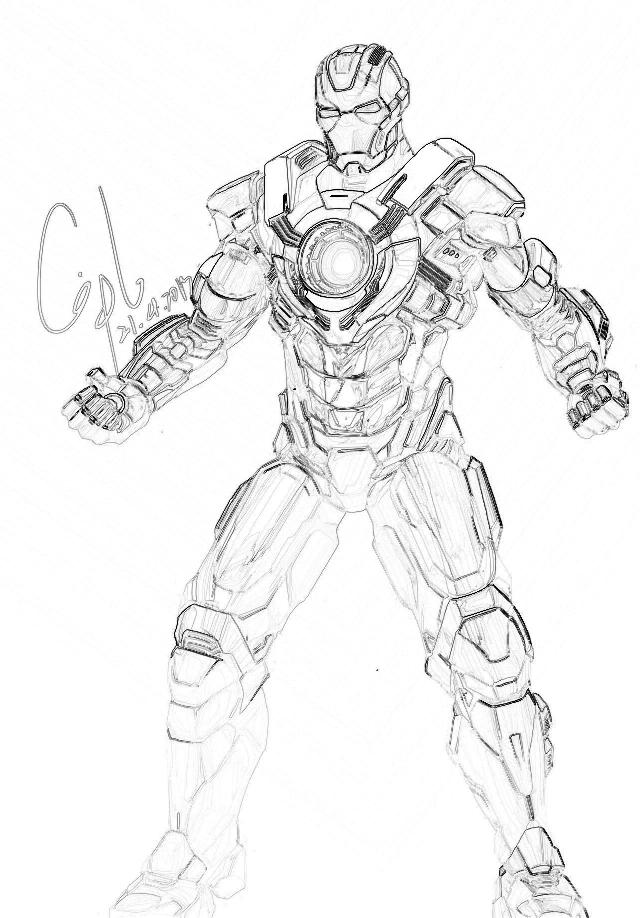
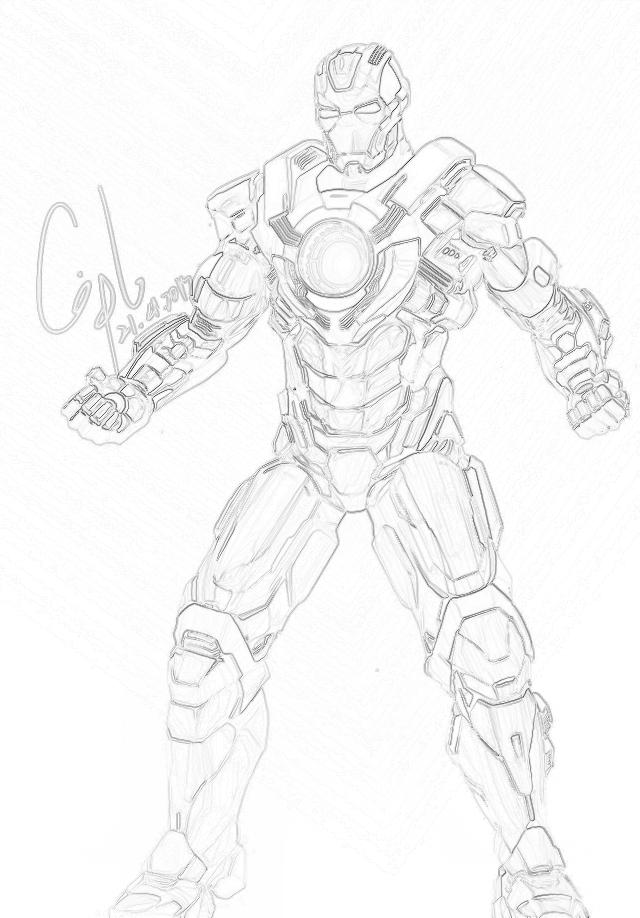
:smile: add color-pencil, my code is too messy

diff --git a/pencil.py b/pencil.py
@@ -17,6 +17,20 @@ DIRECTIONNUM = 8
 LINEDIVISOR = 25
 
 
+def np_show(Imag):
+	img = Image.fromarray(Imag*255)
+	img.show()
+
+def show_hsv(img , filename = None):
+	img = Image.fromarray(img , mode = 'HSV')
+	img = img.convert('RGB')
+	img.show()
+
+	
+	if filename:
+		img.save(os.path.join('output', filename))
+
+
 def tensor_save_output(img_tensor, name):
     img = img_tensor.squeeze().numpy()
     img = Image.fromarray(img * 255)
@@ -31,16 +45,20 @@ def tensor_save_output(img_tensor, name):
 
 
 class TextureLearn(nn.Module):
-	def __init__(self , textname,target ,device = 'cuda'):
+	def __init__(self , textname,target ,device = None):
 		super().__init__()
-		self.device = device
+		if device:
+			self.device = device
+		else :
+			self.device  = torch.device('cuda:0' if torch.cuda.is_available() else 'cpu')
+
 		self.theta = 0.5
-		self.avoid_add = 0.01
+		self.avoid_add = 0.001
 		self.C ,self.H , self.W = target.size()
 		print(type(self.H),type(self.W))
 		texture = Image.open(textname).resize((self.W , self.H))
 		texture = texture.convert('L') 	
-		texture.show()
+		#texture.show()
 		self.H = transforms.ToTensor()(texture).to(self.device)
 
 
@@ -93,18 +111,20 @@ class PencilDraw(nn.Module):
 		self.unloader = transforms.ToPILImage()
 		self.device = device
 	
-	def show(self, x ,filename =None ):
+	def show(self, x , filename =None , mode = None):
 		x = x.to('cpu')
 		show = self.unloader(x)
 		#print(type(show))
+		if mode :
+			show.mode = mode 
 		show.show()
 		if filename:
 			show.save(os.path.join('output', filename))
 		#(show , filename)
 
 	# data is C*H*W tensor 
-	# TODO: add cuda compute
-	def get_line(self,input_data , gammaS = 2 ):
+
+	def get_line(self,input_data , gammaS = 1 ):
 
 		input_data = input_data.to(self.device)
 		print(input_data.dtype)
@@ -144,7 +164,7 @@ class PencilDraw(nn.Module):
 		self.show((1-d_image)**gammaS ,'test_gd.jpg')
 
 		# improve 
-		d_image[d_image<0.01] = 0
+		d_image[d_image<0.015] = 0
 		#d_image[d_image>0] +=0.01
 
 		G = torch.zeros(1,DIRECTIONNUM,H,W).to(self.device)
@@ -203,17 +223,31 @@ class PencilDraw(nn.Module):
 
 
 
-	def forward(self,filename):
+	def forward(self,filename , mode = 'gray'):
 		img = Image.open(filename)
 				
 		counter = 1 
-		if min(img.size[0] , img.size[1])// counter >1000:
+		print(min(img.size[0] , img.size[1])// counter)
+		while (min(img.size[0] , img.size[1])/ counter >1000):
 			counter *=2 
+			print('test counter' , counter)
+		
 		img = img.resize((img.size[0]//counter,img.size[1]//counter))
+		img = img.filter(ImageFilter.SMOOTH)
+		print(img.size)
+		if mode == 'gray':
+			img_gray = img.convert('L') 
+			img_gray = np.array(img_gray)	
+		else :
+			img_color = np.array(img.convert('HSV'))
+			print ('test pre img color size ' , img_color.shape)
+			img_gray = img_color[:,:,2]
+			
+		
+		clahe = cv2.createCLAHE(clipLimit=5.0, tileGridSize=(8, 8))
+		img_gray = clahe.apply(img_gray)
 
-		img_gray = img.convert('L') 
-
-		tone = self.get_tone(np.array(img_gray.filter(ImageFilter.SMOOTH))).to(self.device)
+		tone = self.get_tone(img_gray).to(self.device)
 		tone = self.render_texture(tone , 'texture.jpg')
 		# C*H*W tensor
 		img = self.transform(img)
@@ -228,10 +262,16 @@ class PencilDraw(nn.Module):
 		# tensor_save_output(line.to('cpu') ,'line.jpg')
 		S = tone * line 
 
-		
-		self.show(S,'test_result.jpg')
+		if mode == 'gray':
+			self.show(S,'test_result.jpg')
+		else :
+			img_color[:,:,2] = S.detach().cpu().numpy()*255 
+			show_hsv(img_color,'test_result_color.jpg')
+			#self.show(img_color , 'test_result_color.jpg')
 
 if __name__ == "__main__":
+
+
 	start = time.time()
 	pc = PencilDraw(device = 'cuda')
 	
@@ -240,7 +280,11 @@ if __name__ == "__main__":
 		filename = argv[1]
 	else :
 		filename = 'test.jpg'
+	if len(argv)>2:
+		mode = argv[2]
+	else :
+		mode = 'gray'
 
-	pc(filename)
+	pc(filename , mode )
 
 	print('spend time ',time.time() - start)

diff --git a/README.md b/README.md
@@ -27,3 +27,14 @@ Here are some original picture and productions in some steps .
 	<img src="output/test4.jpg" height="600"/>
 	<img src="output/test_result.jpg" height="600"/>
 </div>
+
+<p align="center">My life is brilliant</p>
+
+<div align="center">	
+	<img src="output/test_gd.jpg" height="600"/>
+	<img src="output/test_line.jpg" height="600"/>
+	<img src="output/test_tone.jpg" height="600"/>
+	<img src="output/test_texture.jpg" height="600"/>
+	<img src="output/test4.jpg" height="600"/>
+	<img src="output/test_result.jpg" height="600"/>
+</div>
